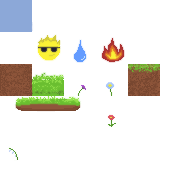
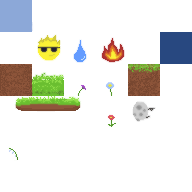
added new tilemap that appears after certain score

Changed region(s): [[0.8125, 0.1562, 1.0, 0.3438], [0.6875, 0.5312, 0.8125, 0.625]]

diff --git a/src/scenes/Play.js b/src/scenes/Play.js
@@ -9,28 +9,34 @@ class Play extends Phaser.Scene{
             frameHeight: 32,
         })
        this.load.image('platform', 'platform.png')
+
     }
     
 
     create(){
+        this.sound.stopAll()
         this.sound.play('bgmusic', {
         loop: true,
      })
         this.physics.world.gravity.y = 250 
-        const map = this.add.tilemap('tilemapJson')
-        const tileset = map.addTilesetImage('tilesheet', 'tilesetImg')
-        const sky = map.createLayer('Sky', tileset, 0, 0)
-        const weather = map.createLayer('Weather', tileset, 0, 0)
-        const sun = map.createLayer('Sun', tileset, 0, 0)
+        this.map = this.add.tilemap('tilemapJson')
+        const tileset = this.map.addTilesetImage('tilesheet', 'tilesetImg')
+        this.sky = this.map.createLayer('Sky', tileset, 0, 0)
+        this.weather = this.map.createLayer('Weather', tileset, 0, 0)
+        this.sun = this.map.createLayer('Sun', tileset, 0, 0)
+        
  
-        const playerSpawn = map.findObject('Spawnpoint', obj => obj.name === 'SpawnPoint')
+        const playerSpawn = this.map.findObject('Spawnpoint', obj => obj.name === 'SpawnPoint')
         this.player = new Player(this, playerSpawn.x, playerSpawn.y, 'player', 0, 'right')
         this.player.body.setCollideWorldBounds(false)
-
+        this.player.setDepth(10)
+        this.sky.setDepth(-1)
+        this.weather.setDepth(-1)
+        this.sun.setDepth(-1)
+       
         
-        
-        this.cameras.main.setBounds(0, 0, map.widthInPixels, map.heightInPixels)
-        this.physics.world.setBounds(0, 0, map.widthInPixels, map.heightInPixels)
+        this.cameras.main.setBounds(0, 0, this.map.widthInPixels, this.map.heightInPixels)
+        this.physics.world.setBounds(0, 0, this.map.widthInPixels, this.map.heightInPixels)
         
         this.keys = this.input.keyboard.createCursorKeys()
         this.spaceKey = this.input.keyboard.addKey(Phaser.Input.Keyboard.KeyCodes.SPACE)
@@ -45,19 +51,20 @@ class Play extends Phaser.Scene{
         this.spawnPlatform.body.setAllowGravity(false)
         this.spawnPlatform.body.setImmovable(true)
         this.physics.add.collider(this.player, this.spawnPlatform)
-
+        this.spawnPlatform.setDepth(2)
         this.platforms = this.physics.add.group({
             allowGravity: false,
             immovable: true
         })
         this.physics.add.collider(this.player, this.platforms)
-
+        this.platforms.setDepth(5)
         this.time.addEvent({
             delay: 1500,
             callback: this.spawnPlatforms.bind(this),
             loop: true,
             repeat: -1, 
         })
+        
         
 
         this.platformSpeed = -50
@@ -75,7 +82,9 @@ class Play extends Phaser.Scene{
         this.gameOver = false
 
         this.score = 0
-        this.scoreText = this.add.text(16, 16, 'Score: 0', { fontSize: '14px', fill: '#000000'})
+        this.scoreText = this.add.text(16, 16, 'Score: 0', { fontSize: '14px', fill: '#000000', fontFamily: 'Comic Sans MS'})
+        this.scoreText.setDepth(3)
+        this.mapChanged = false
         
     }
 
@@ -103,6 +112,12 @@ class Play extends Phaser.Scene{
 
             this.scene.start('gameOverScene', { score: finalScore })
         }
+
+        if (Math.floor(this.score / 10) >= 10 && !this.mapChanged) {
+            this.mapChanged = true
+            this.changeTilemap()
+        }
+        
     }
 
    
@@ -115,6 +130,7 @@ class Play extends Phaser.Scene{
         platform.body.checkCollision.left = false
         platform.body.checkCollision.right = false
         platform.body.checkCollision.down = false
+        platform.setDepth(3)
         
     }
     spawnPlatforms(){
@@ -128,6 +144,23 @@ class Play extends Phaser.Scene{
                 platform.destroy()
             }
         })
+    }
+
+    changeTilemap(){
+        this.sky.destroy()
+        this.weather.destroy()
+        this.sun.destroy()
+        this.map.destroy()
+
+        this.map = this.add.tilemap('nightmapJson')
+        const tileset2 = this.map.addTilesetImage('tilesheet', 'tilesetImg')
+
+        this.sky = this.map.createLayer('Sky', tileset2, 0, 0)
+        this.stars = this.map.createLayer('Stars', tileset2, 0, 0)
+        this.moon = this.map.createLayer('Moon', tileset2, 0, 0)
+
+        this.stars.setDepth(2)
+        this.moon.setDepth(3)
     }
     
 }

diff --git a/src/scenes/Menu.js b/src/scenes/Menu.js
@@ -8,13 +8,13 @@ class Menu extends Phaser.Scene{
     }
 
     create(){
-       
+        this.cameras.main.setBackgroundColor("#88a7d4")
         
         this.menuTextGroup = this.add.group()
         
-        const title = this.add.text(160, 160, 'Press ENTER to Start', { fontSize: '20px' }).setOrigin(0.5)
-        const directions = this.add.text(160, 180, 'Press D for Directions', { fontSize: '16px' }).setOrigin(0.5)
-        const credits = this.add.text(160, 200, 'Press C for Credits', { fontSize: '16px' }).setOrigin(0.5)
+        const title = this.add.text(160, 120, 'Here Comes the Sun \n Press ENTER to Start', { fontSize: '24px', wordWrap: { width: 320 }, color: '#000000', fontFamily: 'Comic Sans MS', }, ).setOrigin(0.5)
+        const directions = this.add.text(160, 180, 'Press D for Directions', { fontSize: '18px', color: '#000000', fontFamily: 'Comic Sans MS' }).setOrigin(0.5)
+        const credits = this.add.text(160, 200, 'Press C for Credits', { fontSize: '18px', color: '#000000', fontFamily: 'Comic Sans MS' }).setOrigin(0.5)
         
         this.menuTextGroup.add(title)
         this.menuTextGroup.add(directions)
@@ -22,13 +22,13 @@ class Menu extends Phaser.Scene{
 
         this.directionsText = this.add.text(160, 160, 
             'Press SPACE to jump\n\nPress ESC to return', 
-            { fontSize: '16px', align: 'center', wordWrap: { width: 320 } }
+            { fontSize: '16px', align: 'center', wordWrap: { width: 320 }, color: '#000000', fontFamily: 'Comic Sans MS' }
         ).setOrigin(0.5);
         this.directionsText.setVisible(false)
 
-        this.creditsText = this.add.text(160, 160, 
-            'Credits: \nPress ESC to return', 
-            { fontSize: '16px', align: 'center', wordWrap: { width: 320 } }
+        this.creditsText = this.add.text(160, 130, 
+            'Credits: \n Background music: https://freesound.org/people/ Mrthenoronha/sounds/520937/ Menu Select: https://freesound.org/people/ SamsterBirdies/sounds/377338/ Game Over: https://freesound.org/people/ connersaw8/sounds/125683/ Menu Exit: https://freesound.org/people/ SomeGuy22/sounds/431326/ Game Start: https://freesound.org/people/ Breviceps/sounds/450613/ \n Press ESC to return', 
+            { fontSize: '12px', align: 'center', wordWrap: { width: 200, useAdvancedWeap: true,  }, color: '#000000', fontFamily: 'Comic Sans MS' }
         ).setOrigin(0.5);
         this.creditsText.setVisible(false)
 

diff --git a/src/scenes/GameOver.js b/src/scenes/GameOver.js
@@ -7,9 +7,10 @@ class GameOver extends Phaser.Scene {
     }
 
     create() {
-        this.add.text(160, 160, 'GAME OVER', { fontSize: '32px', fill: '#ff0000' }).setOrigin(0.5)
-        this.add.text(160, 190, 'Press R to Restart', { fontSize: '16px' }).setOrigin(0.5)
-        this.add.text(160, 205, 'Press M for Menu', { fontSize: '16px' }).setOrigin(0.5)
+        this.cameras.main.setBackgroundColor("#000000")
+        this.add.text(160, 150, 'GAME OVER', { fontSize: '32px', fill: '#ff0000', fontFamily: 'Comic Sans MS' }).setOrigin(0.5)
+        this.add.text(160, 190, 'Press R to Restart', { fontSize: '16px', fill: '#ffffff', fontFamily: 'Comic Sans MS' }).setOrigin(0.5)
+        this.add.text(160, 205, 'Press M for Menu', { fontSize: '16px', fill: '#ffffff', fontFamily: 'Comic Sans MS' }).setOrigin(0.5)
 
         this.input.keyboard.on('keydown-R', () => {
             this.sound.play('menuStart')
@@ -22,7 +23,7 @@ class GameOver extends Phaser.Scene {
         })
 
         const highScore = this.registry.get('highScore')
-        this.add.text(160, 220, `Your Score: ${this.finalScore}`, { fontSize: '16px' }).setOrigin(0.5)
-        this.add.text(160, 235, `High Score: ${highScore}`, { fontSize: '16px', fill: '#ffff00' }).setOrigin(0.5)
+        this.add.text(160, 220, `Your Score: ${this.finalScore}`, { fontSize: '16px', fill: '#ffffff', fontFamily: 'Comic Sans MS' }).setOrigin(0.5)
+        this.add.text(160, 235, `High Score: ${highScore}`, { fontSize: '16px', fill: '#ffff00', fontFamily: 'Comic Sans MS' }).setOrigin(0.5)
     }
 }

diff --git a/src/main.js b/src/main.js
@@ -1,3 +1,9 @@
+//Name: Mandy Cai
+//Title: Here Comes the Sun
+//Time: ~25 hours
+//Creative Tilt: changing tilemap after certain score and getting platforms to randomly spawn at the correct position with faster speed after certain times
+//               
+
 'use strict'
 
 const config = {
@@ -7,7 +13,6 @@ const config = {
     height: 320,
     pixelArt: true,
     zoom: 2,
-    //scale: Phaser.Scale.ENVELOP , 
     physics: {
         default: "arcade",
         arcade: {
@@ -17,9 +22,4 @@ const config = {
     scene: [ Load, Menu, Play, GameOver ] 
 }
 
-let keyLEFT, keyRIGHT
-
 const game = new Phaser.Game(config)
-
-let borderUISize = game.config.height / 15
-let borderPadding = borderUISize / 3

diff --git a/src/scenes/Load.js b/src/scenes/Load.js
@@ -13,6 +13,7 @@ class Load extends Phaser.Scene {
         
         this.load.image('tilesetImg', 'tilesheet.png')
         this.load.tilemapTiledJSON('tilemapJson', 'tilemap.json')
+        this.load.tilemapTiledJSON('nightmapJson', 'night.json')
         this.load.image('platform', 'platform.png')
         this.load.audio('menuStart', 'start.wav')
         this.load.audio('select', 'select.wav')

diff --git a/src/prefabs/Player.js b/src/prefabs/Player.js
@@ -4,7 +4,7 @@ class Player extends Phaser.Physics.Arcade.Sprite{
         scene.add.existing(this)
         scene.physics.add.existing(this)
 
-        this.body.setSize(this.width /2, this.height)
+        this.body.setSize(this.width / 1.5, this.height)
         this.body.setCollideWorldBounds(true)
 
         // set custom player properties
